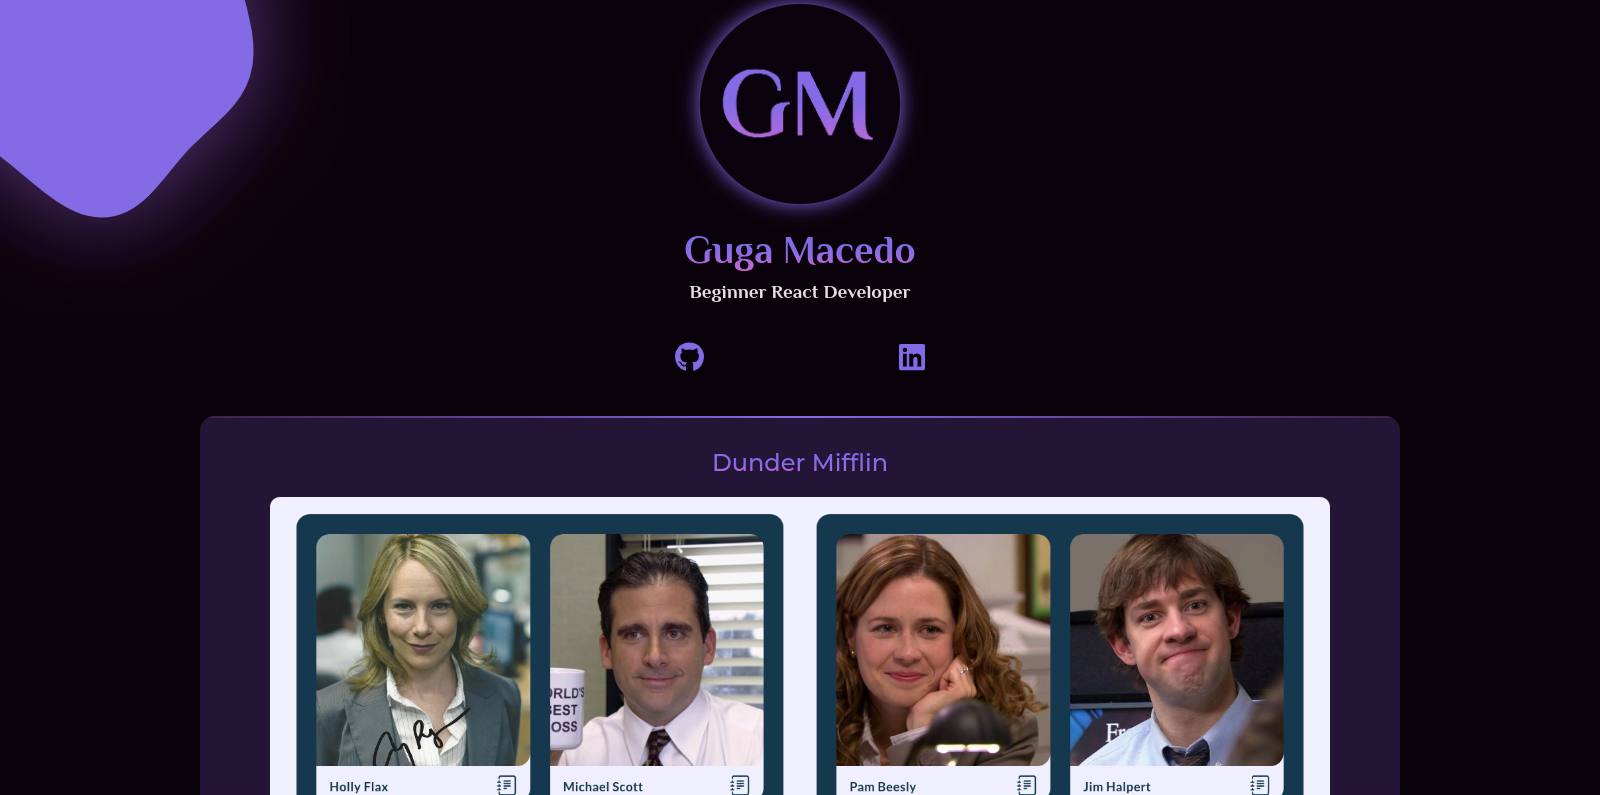
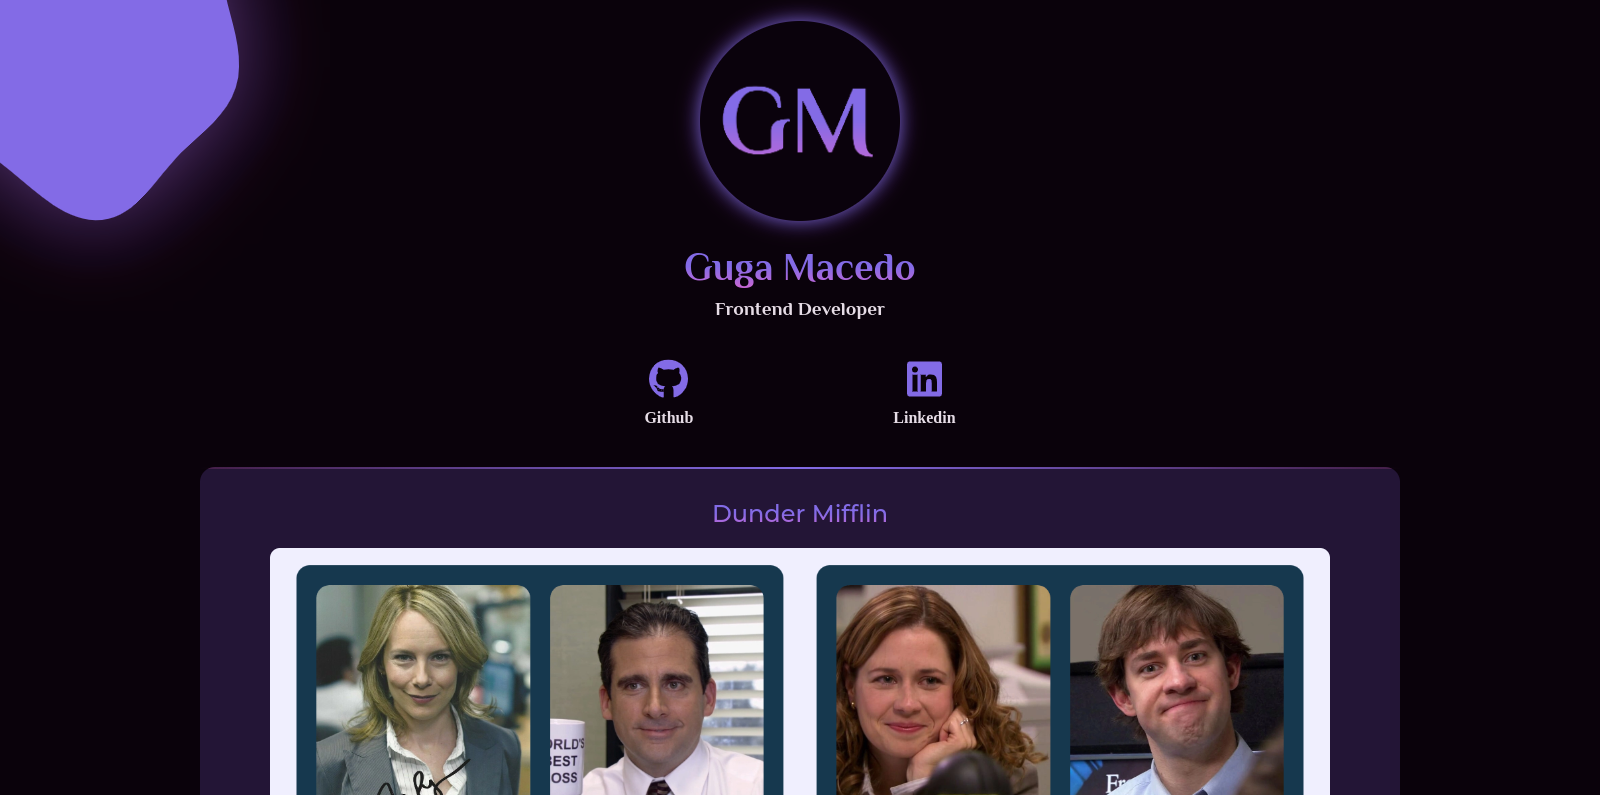
feat: design improvement

diff --git a/src/components/Header/Header.module.scss b/src/components/Header/Header.module.scss
@@ -40,13 +40,23 @@
   }
 
   .links {
-    margin: 40px auto;
+    margin: 40px 0;
     display: flex;
-    justify-content: space-evenly;
-    width: 40%;
+    justify-content: center;
+    gap: 200px;
+    width: 100%;
 
-    img {
-      height: 30px;
+    a {
+      color: $secondary-color;
+      font-size: 1rem;
+      display: flex;
+      flex-direction: column;
+      align-items: center;
+      gap: 10px;
+
+      img {
+        height: 40px;
+      }
     }
   }
 }
@@ -72,9 +82,15 @@
     }
 
     .links {
-      img {
-        height: 50px;
-        margin: 30px 0;
+      margin: 60px 0;
+      
+      a {
+        font-size: 1.5rem;
+        gap: 20px;
+  
+        img {
+          height: 60px;
+        }
       }
     }
   }
@@ -98,17 +114,16 @@
       h1 {
         font-size: 2rem;
       }
-  
+
       h2 {
         font-size: 1rem;
       }
-    } 
+    }
 
     .stain {
       width: 200px;
     }
   }
-
 }
 
 @media (max-width: 440px) {
@@ -132,9 +147,16 @@
     }
 
     .links {
-      margin: 20px auto;
-      width: 70%;
-
+      margin: 30px auto;
+      gap: 50px;
+      
+      a {
+        font-size: 0.8rem;
+  
+        img {
+          height: 30px;
+        }
+      }
     }
   }
 }

diff --git a/public/index.html b/public/index.html
@@ -7,6 +7,19 @@
     <meta name="viewport" content="width=device-width, initial-scale=1.0" />
     <meta name="description" content="My Portfolio" />
     <meta name="image" content="https://raw.githubusercontent.com/gugamacedo/gugamacedo-vercel/main/public/portfolio.png" />
+        <!--
+      manifest.json provides metadata used when your web app is installed on a
+      user's mobile device or desktop. See https://developers.google.com/web/fundamentals/web-app-manifest/
+    -->
+    <link rel="manifest" href="%PUBLIC_URL%/manifest.json" />
+    <!--
+      Notice the use of %PUBLIC_URL% in the tags above.
+      It will be replaced with the URL of the `public` folder during the build.
+      Only files inside the `public` folder can be referenced from the HTML.
+      Unlike "/favicon.ico" or "favicon.ico", "%PUBLIC_URL%/favicon.ico" will
+      work correctly both with client-side routing and a non-root public URL.
+      Learn how to configure a non-root public URL by running `npm run build`.
+    -->
     <link rel="preconnect" href="https://fonts.googleapis.com" />
     <link rel="preconnect" href="https://fonts.gstatic.com" crossorigin />
     <link

diff --git a/src/components/Header/Header.module.css b/src/components/Header/Header.module.css
@@ -32,13 +32,22 @@
   color: rgb(230, 220, 230);
 }
 .header .links {
-  margin: 40px auto;
+  margin: 40px 0;
   display: flex;
-  justify-content: space-evenly;
-  width: 40%;
+  justify-content: center;
+  gap: 200px;
+  width: 100%;
 }
-.header .links img {
-  height: 30px;
+.header .links a {
+  color: rgb(230, 220, 230);
+  font-size: 1rem;
+  display: flex;
+  flex-direction: column;
+  align-items: center;
+  gap: 10px;
+}
+.header .links a img {
+  height: 40px;
 }
 
 @media (min-width: 1900px) {
@@ -54,9 +63,15 @@
   .header .avatar h2 {
     font-size: 2rem;
   }
-  .header .links img {
-    height: 50px;
-    margin: 30px 0;
+  .header .links {
+    margin: 60px 0;
+  }
+  .header .links a {
+    font-size: 1.5rem;
+    gap: 20px;
+  }
+  .header .links a img {
+    height: 60px;
   }
 }
 @media (max-width: 820px) {
@@ -92,7 +107,13 @@
     font-size: 0.9rem;
   }
   .header .links {
-    margin: 20px auto;
-    width: 70%;
+    margin: 30px auto;
+    gap: 50px;
+  }
+  .header .links a {
+    font-size: 0.8rem;
+  }
+  .header .links a img {
+    height: 30px;
   }
 }/*# sourceMappingURL=Header.module.css.map */

diff --git a/src/components/Header/Header.jsx b/src/components/Header/Header.jsx
@@ -7,19 +7,21 @@ export function Header() {
       <div className={style.avatar}>
         <img src="/avatar_small.png" alt="Guga Macedo" />
         <h1>Guga Macedo</h1>
-        <h2>FullStack Developer</h2>
+        <h2>Frontend Developer</h2>
       </div>
 
       <div className={style.links}>
         <li>
           <a href="https://github.com/gugamacedo" target="_blank" rel="noreferrer">
             <img src="/github.svg" alt="Github Profile" />
+            <h4>Github</h4>
           </a>
         </li>
 
         <li>
           <a href="https://linkedin.com/in/gugamacedo" target="_blank" rel="noreferrer">
             <img src="./linkedin.svg" alt="Linkedin Profile" />
+            <h4>Linkedin</h4>
           </a>
         </li>
       </div>

diff --git a/README.md b/README.md
@@ -1,6 +1,6 @@
 <h1>Guga Macedo Portfolio <img src="./public/logo.svg" alt="Logo Portfolio" width="50px" /></h1>
 
 - **[See my developed projects](https://gugamacedo.vercel.app/)**
-- Tech stack: ![React](https://img.shields.io/badge/React-8257e6.svg?style=for-the-badge&logo=react&logoColor=%2361DAFB) ![MUI](https://img.shields.io/badge/CSS--Modules-8257e6.svg?style=for-the-badge&logo=css3&logoColor=white)
+- Tech stack: ![React](https://img.shields.io/badge/React-8257e6.svg?style=for-the-badge&logo=react&logoColor=white) ![MUI](https://img.shields.io/badge/SASS--Modules-8257e6.svg?style=for-the-badge&logo=sass&logoColor=white)
  
 ![Page Layout](./public/portfolio.png)
